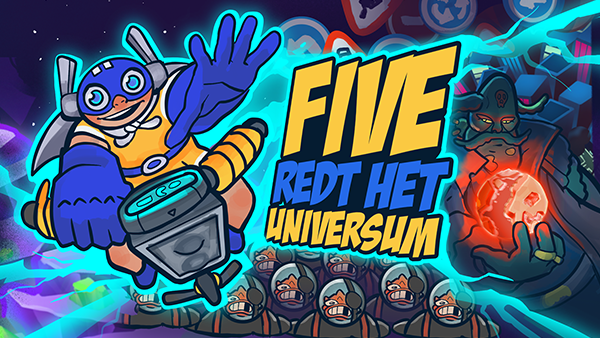
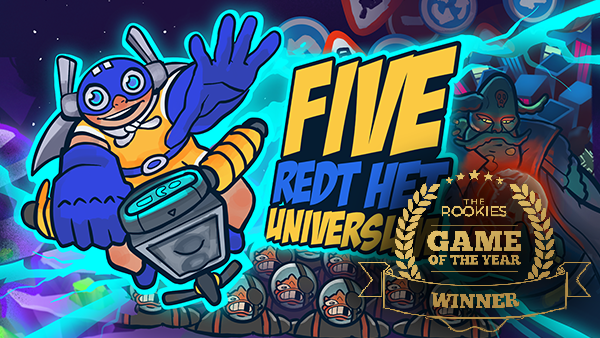
Changes

Changed region(s): [[0.54, 0.4142, 0.99, 1.0]]

diff --git a/FiveSavesTheUniverse.html b/FiveSavesTheUniverse.html
@@ -100,7 +100,7 @@
                 <div class = "left-column">
                     <h3>Gameplay</h3>
                     <p>
-                        "Five Saves The Universe" is an educational mobile game designed to teach kids how to navigate traffic. It was created for <a href="https://www.ikhighfive.be/">High-Five</a> as part of a university course and was awarded the <a href="https://www.therookies.co/contests/407/results"> best student-made mobile game of the year</a> by The Rookies.
+                        "Five Saves The Universe" is an educational mobile game designed to teach kids how to navigate traffic. It was created for <a href="https://www.ikhighfive.be/">High-Five</a> as part of a university course and was awarded the <a href="https://www.therookies.co/contests/407/results">mobile game of the year</a> by The Rookies.
                        
                     </p>
                     <br>
